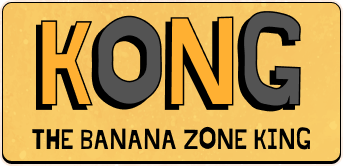
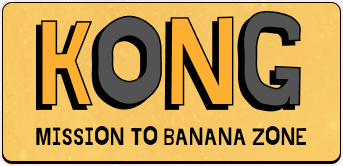
update media

Changed region(s): [[0.0875, 0.753, 0.9038, 0.9036]]

diff --git a/src/components/statisticsPanel/statisticsPanel.jsx b/src/components/statisticsPanel/statisticsPanel.jsx
@@ -63,11 +63,21 @@ export default function StatisticsPanel() {
           }
         });
       },
-      { threshold: 0.2 }
+      { threshold: 0.1 }
     );
 
     const elements = [headerRef.current, notesRef.current, footerRef.current];
     elements.forEach((el) => el && observer.observe(el));
+
+    if (window.innerWidth > 1024) {
+      elements.forEach((el, index) => {
+        if (el) {
+          setTimeout(() => {
+            el.classList.add(style.visible);
+          }, index * 300);
+        }
+      });
+    }
 
     return () => {
       elements.forEach((el) => el && observer.unobserve(el));
@@ -95,7 +105,7 @@ export default function StatisticsPanel() {
           >
             <span>1. Create a Phantom wallet</span>
             <span className={style.desc}>
-              Visit phantom.app and follow the simple steps to create a new
+              Visit phantom.app and follow the simple steps to create a new
               account in the app or browser extension.
             </span>
           </div>
@@ -106,7 +116,7 @@ export default function StatisticsPanel() {
           >
             <span>2. Get some $SOL</span>
             <span className={style.desc}>
-              Tap the BUY button in the app to purchase Solana, or deposit $SOL
+              Tap the BUY button in the app to purchase Solana, or deposit $SOL
               to your Phantom wallet from the crypto exchange of your choice.
             </span>
           </div>
@@ -117,7 +127,7 @@ export default function StatisticsPanel() {
           >
             <span>3. Swap $SOL for $KONG</span>
             <span className={style.desc}>
-              Tap the SWAP icon in your Phantom wallet and paste the $KONG token
+              Tap the SWAP icon in your Phantom wallet and paste the $KONG token
               address. Swap your $SOL for $KONG.
             </span>
           </div>

diff --git a/src/components/heroSection/heroSection.module.css b/src/components/heroSection/heroSection.module.css
@@ -19,10 +19,13 @@
   z-index: -1;
 }
 
+.text__mobile {
+  display: none;
+}
 .videoBackground video {
   object-fit: cover;
   width: 100%;
-  height: auto;
+  height: 100%;
   pointer-events: none;
 }
 
@@ -39,6 +42,7 @@
 .text__back__img.visible {
   opacity: 1;
 }
+
 .text {
   width: 468px;
   height: 225px;
@@ -169,7 +173,7 @@
   }
 }
 
-@media (max-width: 768px) {
+@media (max-width: 850px) {
   .heroSection {
     & .content {
       justify-content: center;
@@ -197,27 +201,55 @@
     }
   }
 }
-
+@media (max-width: 620px) {
+  .heroSection {
+    & .content {
+      justify-content: space-around;
+    }
+  }
+}
 @media (max-width: 480px) {
   .heroSection {
     height: 800px;
-
     & .content {
       align-items: start;
       justify-content: space-around;
     }
   }
 
+  .content__buttons {
+    width: 50%;
+  }
+}
+@media (max-width: 420px) {
   .text__mobile {
     background-image: url("../../assets/images/mobileherosec.png");
     background-repeat: no-repeat;
-    width: 90%;
-    height: 175px;
-    order: 3;
-    background-position: center;
+    display: none;
     background-size: contain;
+    order: 3;
+    height: 166px;
+    width: 100%;
   }
-  .content__buttons {
-    width: 50%;
+  .text__back__img {
+    display: none;
+  }
+  .text__mobile.visible {
+    display: block;
+  }
+  .kong__head {
+    & img {
+      content: url("../../assets/images/kongHeadmobile.png");
+    }
+  }
+  .twitter__btn {
+    & img {
+      content: url("../../assets/images/twmob.png");
+    }
+  }
+  .telegram__btn {
+    & img {
+      content: url("../../assets/images/telemob.png");
+    }
   }
 }

diff --git a/src/components/heroSection/heroSection.jsx b/src/components/heroSection/heroSection.jsx
@@ -1,10 +1,10 @@
+import { useEffect, useRef } from "react";
 import RunningText from "../runningText/runningText";
 import kongHeadImg from "../../assets/images/kongHead.png";
 import twitterImg from "../../assets/images/twitter.png";
 import telegramImg from "../../assets/images/telegram.png";
 import animationKong from "../../assets/videos/Kong_Rin2.mp4";
 import style from "./heroSection.module.css";
-import { useEffect, useRef } from "react";
 
 export default function HeroSection() {
   const videoRef = useRef(null);
@@ -16,6 +16,10 @@ export default function HeroSection() {
         document
           .querySelector(`.${style.text__back__img}`)
           .classList.add(style.visible);
+
+        document
+          .querySelector(`.${style.text__mobile}`)
+          .classList.add(style.visible);
       });
     }
 
@@ -24,6 +28,9 @@ export default function HeroSection() {
         videoElement.removeEventListener("ended", () => {
           document
             .querySelector(`.${style.text__back__img}`)
+            .classList.add(style.visible);
+          document
+            .querySelector(`.${style.text__mobile}`)
             .classList.add(style.visible);
         });
       }
@@ -66,6 +73,7 @@ export default function HeroSection() {
               <p>MISSION TO BANANA ZONE</p>
             </div>
           </div>
+          <div className={style.text__mobile}></div>
           <div className={style.content__buttons}>
             <div className={style.twitter__btn}>
               <img src={twitterImg} alt="Twitter" />

diff --git a/src/components/footerSection/footerSection.jsx b/src/components/footerSection/footerSection.jsx
@@ -7,22 +7,24 @@ import style from "./footerSection.module.css";
 
 export default function FooterSection() {
   const contentRef = useRef(null);
+  const mediaBlockRef = useRef(null);
 
   useEffect(() => {
     const observer = new IntersectionObserver(
       ([entry]) => {
         if (entry.isIntersecting) {
           contentRef.current.classList.add(style.visible);
+          mediaBlockRef.current.classList.add(style.visible);
         } else {
           contentRef.current.classList.remove(style.visible);
+          mediaBlockRef.current.classList.remove(style.visible);
         }
       },
       { threshold: 0.1 }
     );
 
-    if (contentRef.current) {
-      observer.observe(contentRef.current);
-    }
+    if (contentRef.current) observer.observe(contentRef.current);
+    if (mediaBlockRef.current) observer.observe(mediaBlockRef.current);
 
     return () => observer.disconnect();
   }, []);
@@ -39,7 +41,10 @@ export default function FooterSection() {
               It's time to <span>$kong</span> it <span>$kong</span> it!
             </span>
           </div>
-          <div className={style.media__block}></div>
+          <div
+            ref={mediaBlockRef}
+            className={`${style.media__block} ${style.hidden}`}
+          ></div>
         </div>
       </div>
       <footer>

diff --git a/public/index.html b/public/index.html
@@ -2,7 +2,7 @@
 <html lang="en">
   <head>
     <meta charset="utf-8" />
-    <link rel="icon" href="%PUBLIC_URL%/favicon.ico" />
+    <link rel="icon" href="%PUBLIC_URL%/kongHeadmobile.png" />
     <meta name="viewport" content="width=device-width, initial-scale=1" />
     <meta name="theme-color" content="#000000" />
     <meta name="apple-mobile-web-app-capable" content="yes" />
@@ -10,7 +10,7 @@
       name="description"
       content="Web site created using create-react-app"
     />
-    <link rel="apple-touch-icon" href="%PUBLIC_URL%/logo192.png" />
+    <link rel="apple-touch-icon" href="%PUBLIC_URL%/kongHeadmobile.png" />
     <!--
       manifest.json provides metadata used when your web app is installed on a
       user's mobile device or desktop. See https://developers.google.com/web/fundamentals/web-app-manifest/
@@ -25,7 +25,7 @@
       work correctly both with client-side routing and a non-root public URL.
       Learn how to configure a non-root public URL by running `npm run build`.
     -->
-    <title>React App</title>
+    <title>KONG: MISSION TO BANANA ZONE</title>
   </head>
   <body>
     <noscript>You need to enable JavaScript to run this app.</noscript>

diff --git a/src/components/cityOverview/cityOverview.jsx b/src/components/cityOverview/cityOverview.jsx
@@ -10,11 +10,9 @@ export default function CityOverview() {
         const rect = contentRef.current.getBoundingClientRect();
         const windowHeight = window.innerHeight;
 
-        // Проверяем, находится ли элемент в зоне видимости
         if (rect.top < windowHeight && rect.bottom > 0) {
           contentRef.current.classList.add(style.visible);
         } else {
-          // Убираем класс, если элемент выходит из видимости
           contentRef.current.classList.remove(style.visible);
         }
       }

diff --git a/src/components/footerSection/footerSection.module.css b/src/components/footerSection/footerSection.module.css
@@ -28,15 +28,20 @@
     }
   }
 }
+
 .hidden {
   opacity: 0;
-  transform: translateX(100%);
+  transform: translateX(-100%);
   transition: opacity 0.6s ease-out, transform 0.6s ease-out;
+  transition-delay: 0.3s;
 }
 
 .visible {
   opacity: 1;
   transform: translateX(0);
+}
+.media__block {
+  display: none;
 }
 footer {
   background-color: #fcd973;
@@ -206,7 +211,9 @@ footer {
     background-size: contain;
     width: 200px;
     height: 127px;
+    display: block;
   }
+
   footer {
     & .footer__flex {
       & .head__and__text {

diff --git a/src/components/statisticsPanel/statisticsPanel.module.css b/src/components/statisticsPanel/statisticsPanel.module.css
@@ -22,8 +22,8 @@
 }
 .hidden {
   opacity: 0;
-  transform: translateX(-100%);
-  transition: all 0.6s ease;
+  transform: translateX(-20px);
+  transition: opacity 0.5s ease, transform 0.5s ease;
 }
 
 .visible {
